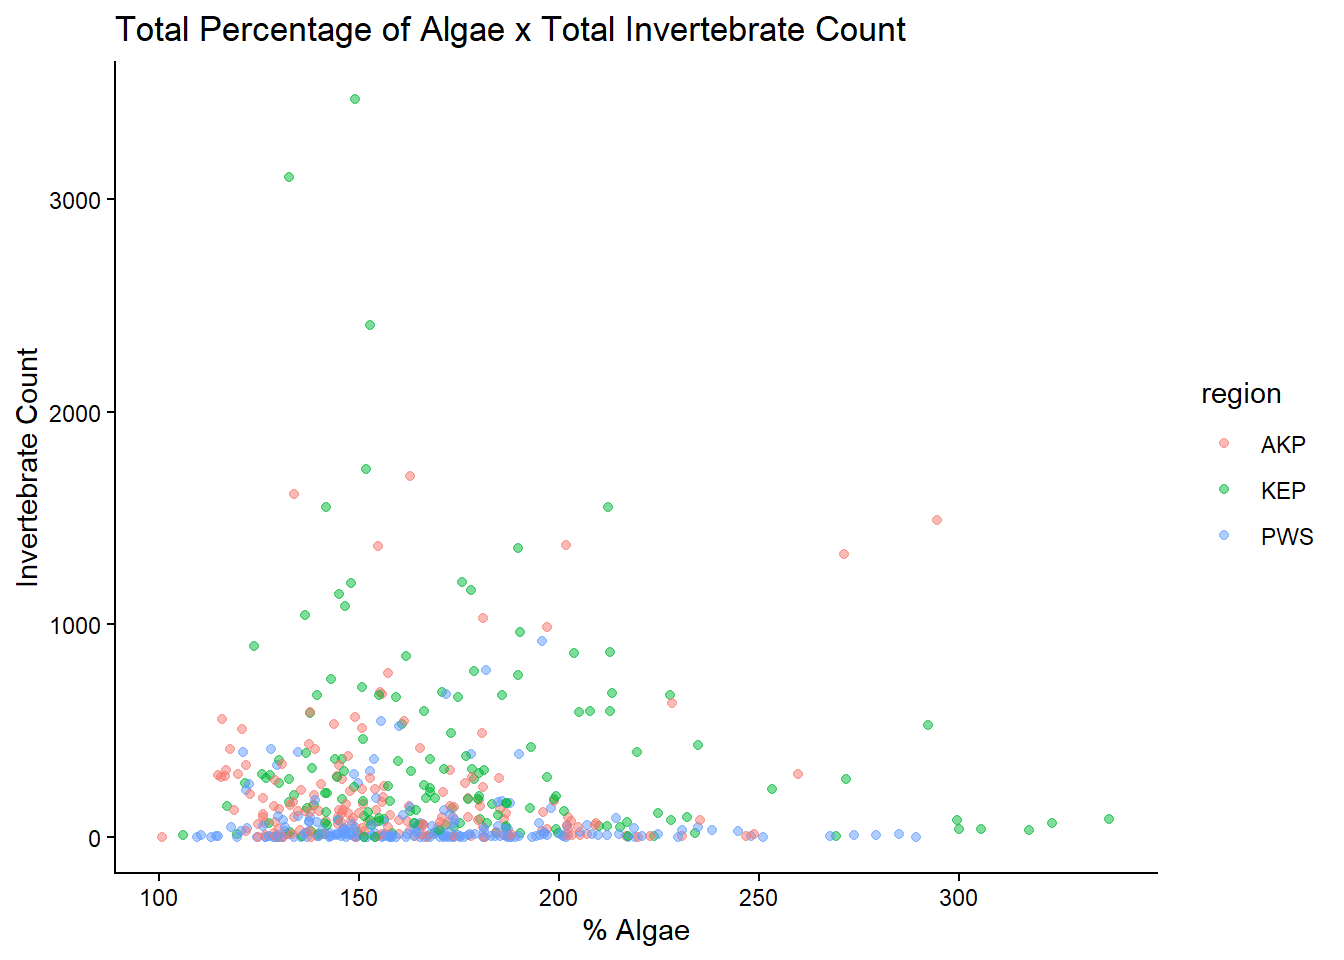
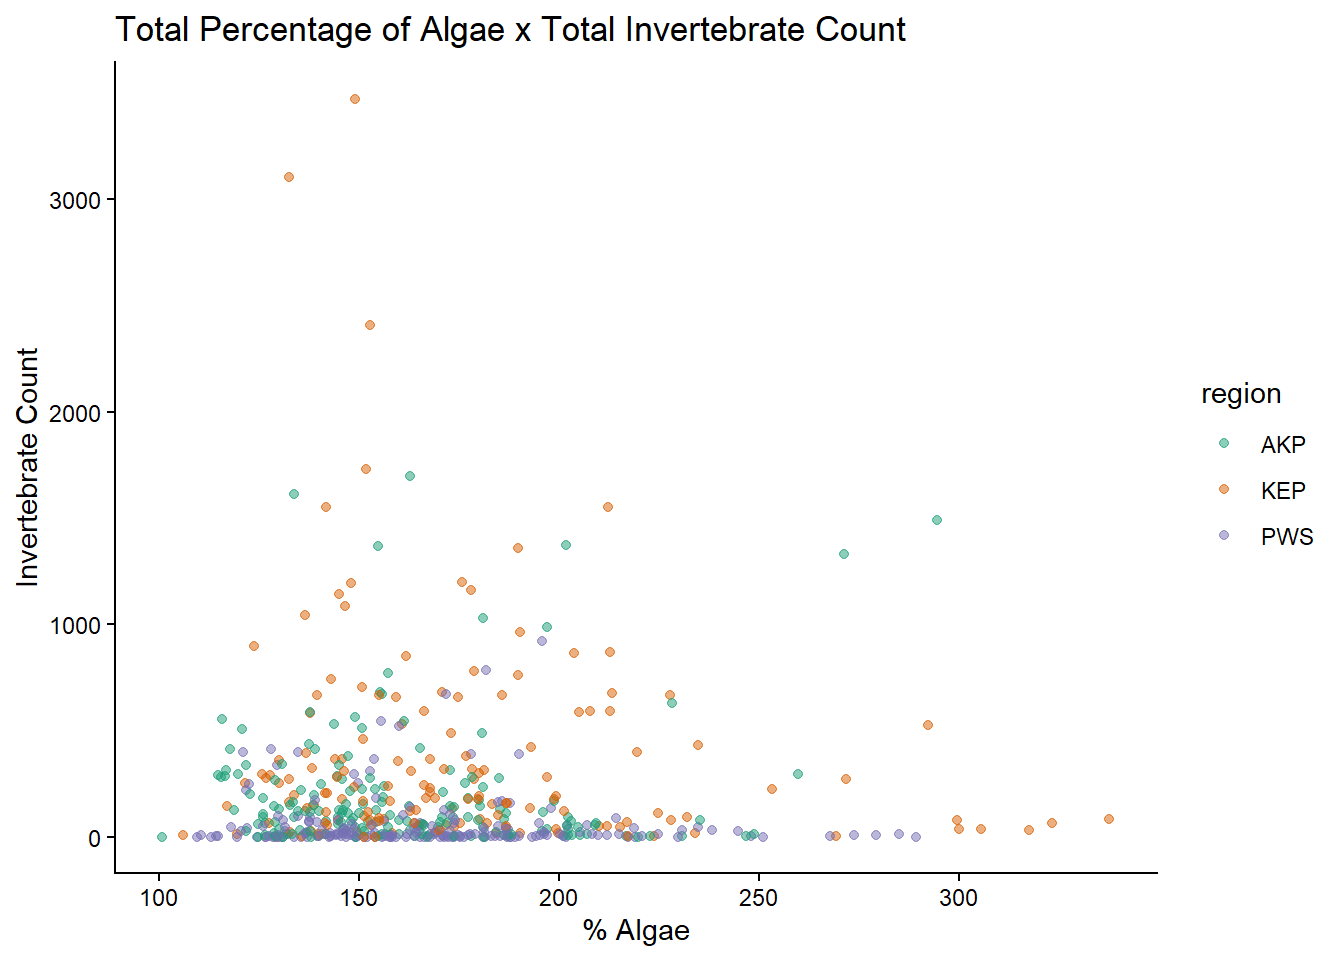
Update README

diff --git a/Algae_density.html b/Algae_density.html
@@ -245,7 +245,8 @@ window.Quarto = {
 <span id="cb7-4"><a href="#cb7-4" aria-hidden="true" tabindex="-1"></a>  <span class="fu">theme_classic</span>() <span class="sc">+</span></span>
 <span id="cb7-5"><a href="#cb7-5" aria-hidden="true" tabindex="-1"></a>  <span class="fu">labs</span>(<span class="at">title =</span> <span class="st">"Total Percentage of Algae x Total Invertebrate Count"</span>,</span>
 <span id="cb7-6"><a href="#cb7-6" aria-hidden="true" tabindex="-1"></a>       <span class="at">x =</span> <span class="st">"% Algae"</span>,</span>
-<span id="cb7-7"><a href="#cb7-7" aria-hidden="true" tabindex="-1"></a>       <span class="at">y =</span> <span class="st">"Invertebrate Count"</span>)</span></code></pre></div><button title="Copy to Clipboard" class="code-copy-button"><i class="bi"></i></button></div>
+<span id="cb7-7"><a href="#cb7-7" aria-hidden="true" tabindex="-1"></a>       <span class="at">y =</span> <span class="st">"Invertebrate Count"</span>) <span class="sc">+</span></span>
+<span id="cb7-8"><a href="#cb7-8" aria-hidden="true" tabindex="-1"></a>  <span class="fu">scale_color_manual</span>(<span class="at">values=</span><span class="fu">c</span>(<span class="st">"#1B9E77"</span>, <span class="st">"#D95F02"</span>, <span class="st">"#7570B3"</span>))</span></code></pre></div><button title="Copy to Clipboard" class="code-copy-button"><i class="bi"></i></button></div>
 <div class="cell-output-display">
 <div>
 <figure class="figure">
@@ -500,7 +501,8 @@ log(\mu) &amp;= \beta_0 + \beta_1 \text{Predictor}
 <span id="cb12-32"><a href="#cb12-32" aria-hidden="true" tabindex="-1"></a>  <span class="fu">geom_ribbon</span>(<span class="fu">aes</span>(<span class="at">ymin =</span> mu_lwr,</span>
 <span id="cb12-33"><a href="#cb12-33" aria-hidden="true" tabindex="-1"></a>                  <span class="at">ymax =</span> mu_upr), <span class="at">alpha =</span> <span class="fl">0.2</span>, <span class="at">fill =</span> <span class="st">"cornflowerblue"</span>) <span class="sc">+</span></span>
 <span id="cb12-34"><a href="#cb12-34" aria-hidden="true" tabindex="-1"></a>  <span class="fu">labs</span>(<span class="at">x =</span> <span class="st">"% algae"</span>,</span>
-<span id="cb12-35"><a href="#cb12-35" aria-hidden="true" tabindex="-1"></a>       <span class="at">y =</span> <span class="st">"Predicted Invertebrate Count"</span>)</span></code></pre></div><button title="Copy to Clipboard" class="code-copy-button"><i class="bi"></i></button></div>
+<span id="cb12-35"><a href="#cb12-35" aria-hidden="true" tabindex="-1"></a>       <span class="at">y =</span> <span class="st">"Predicted Invertebrate Count"</span>) <span class="sc">+</span></span>
+<span id="cb12-36"><a href="#cb12-36" aria-hidden="true" tabindex="-1"></a>  <span class="fu">theme_classic</span>()</span></code></pre></div><button title="Copy to Clipboard" class="code-copy-button"><i class="bi"></i></button></div>
 <div class="cell-output-display">
 <div>
 <figure class="figure">

diff --git a/README.md b/README.md
@@ -1,1 +1,28 @@
-# eds222---Final-Project
+# Effects of Algae Density on Invertebrate Density in the Rocky Intertidal
+
+## EDS222 - Final Project
+
+Repository containing all code and output for the final project in class EDS 222 of the MEDS program - Statistics for Environmental Data Science. This project focuses on investigating the causal relationships between algae density on the number of invertebrates found along the rocky intertidal zones of southern Alaska using common statistical methods.
+
+## Data
+
+Data were obtained through the [USGS ScienceBase Catalog](https://www.sciencebase.gov/catalog/item/63346649d34e900e86c69f6f). Data are a part of the Gulf Watch Alaska (GWA) long-term monitoring program rocky intertidal study.
+
+## Contents
+
+``` bash
+├── Algae_density_files: Rendered project files.
+├── data 
+│   └── files of invertebrate counts, algae total percent, algae cover
+├── Algae_density.html: Rendered project preview.
+├── Algae_density.qmd: File containing this project code and output.
+├── DAG.png: image of DAG.
+├── README.md: README file.
+├── eds222---Final-Project.Rproj: project file
+├── exploratory_code.qmd: exploratory code to investigate data. It may be ignored.
+├── intertidal.jpg: image of intertidal zone.
+```
+
+## Citations
+
+U.S. Geological Survey - Alaska Science Center, and National Park Service - Southwest Alaska Inventory and Monitoring Network, 2022, Rocky intertidal data from Prince William Sound, Katmai National Park and Preserve, and Kenai Fjords National Park (ver 4.0, December 2025): U.S. Geological Survey data release, <https://doi.org/10.5066/F7513WCB>.
